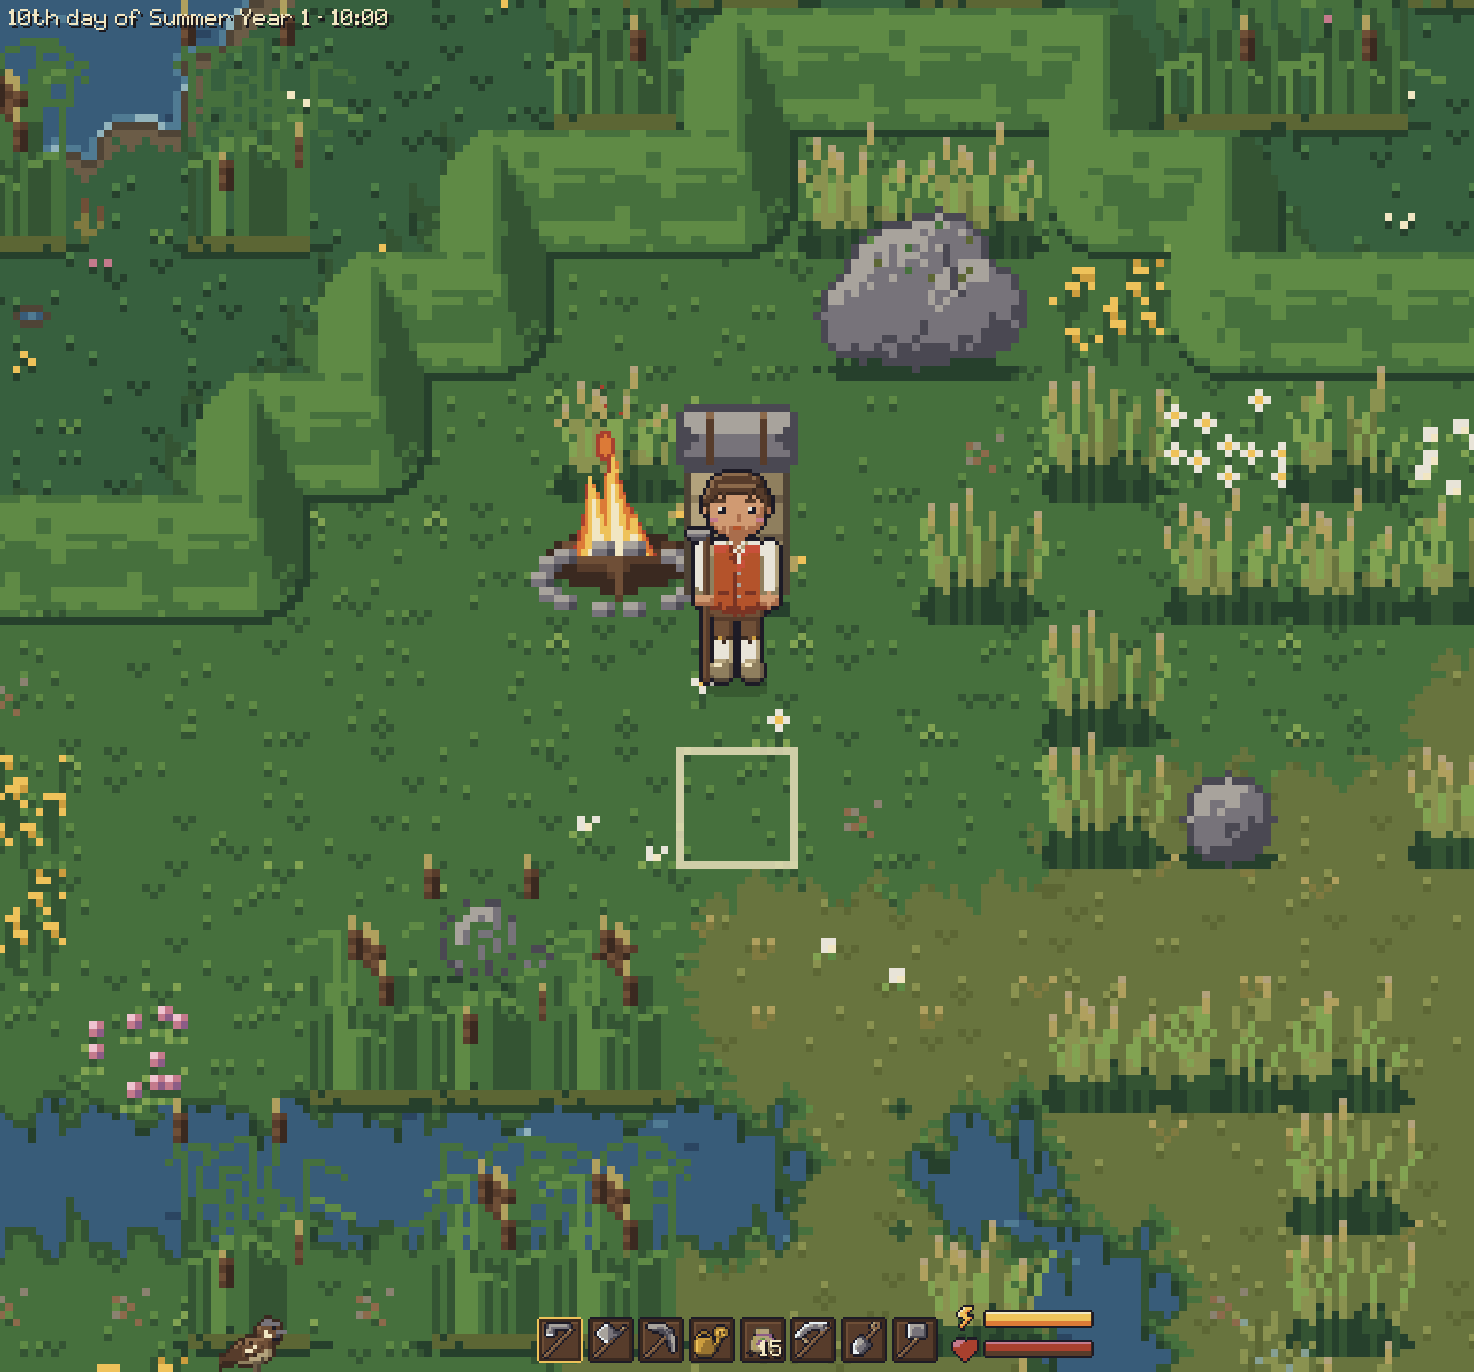
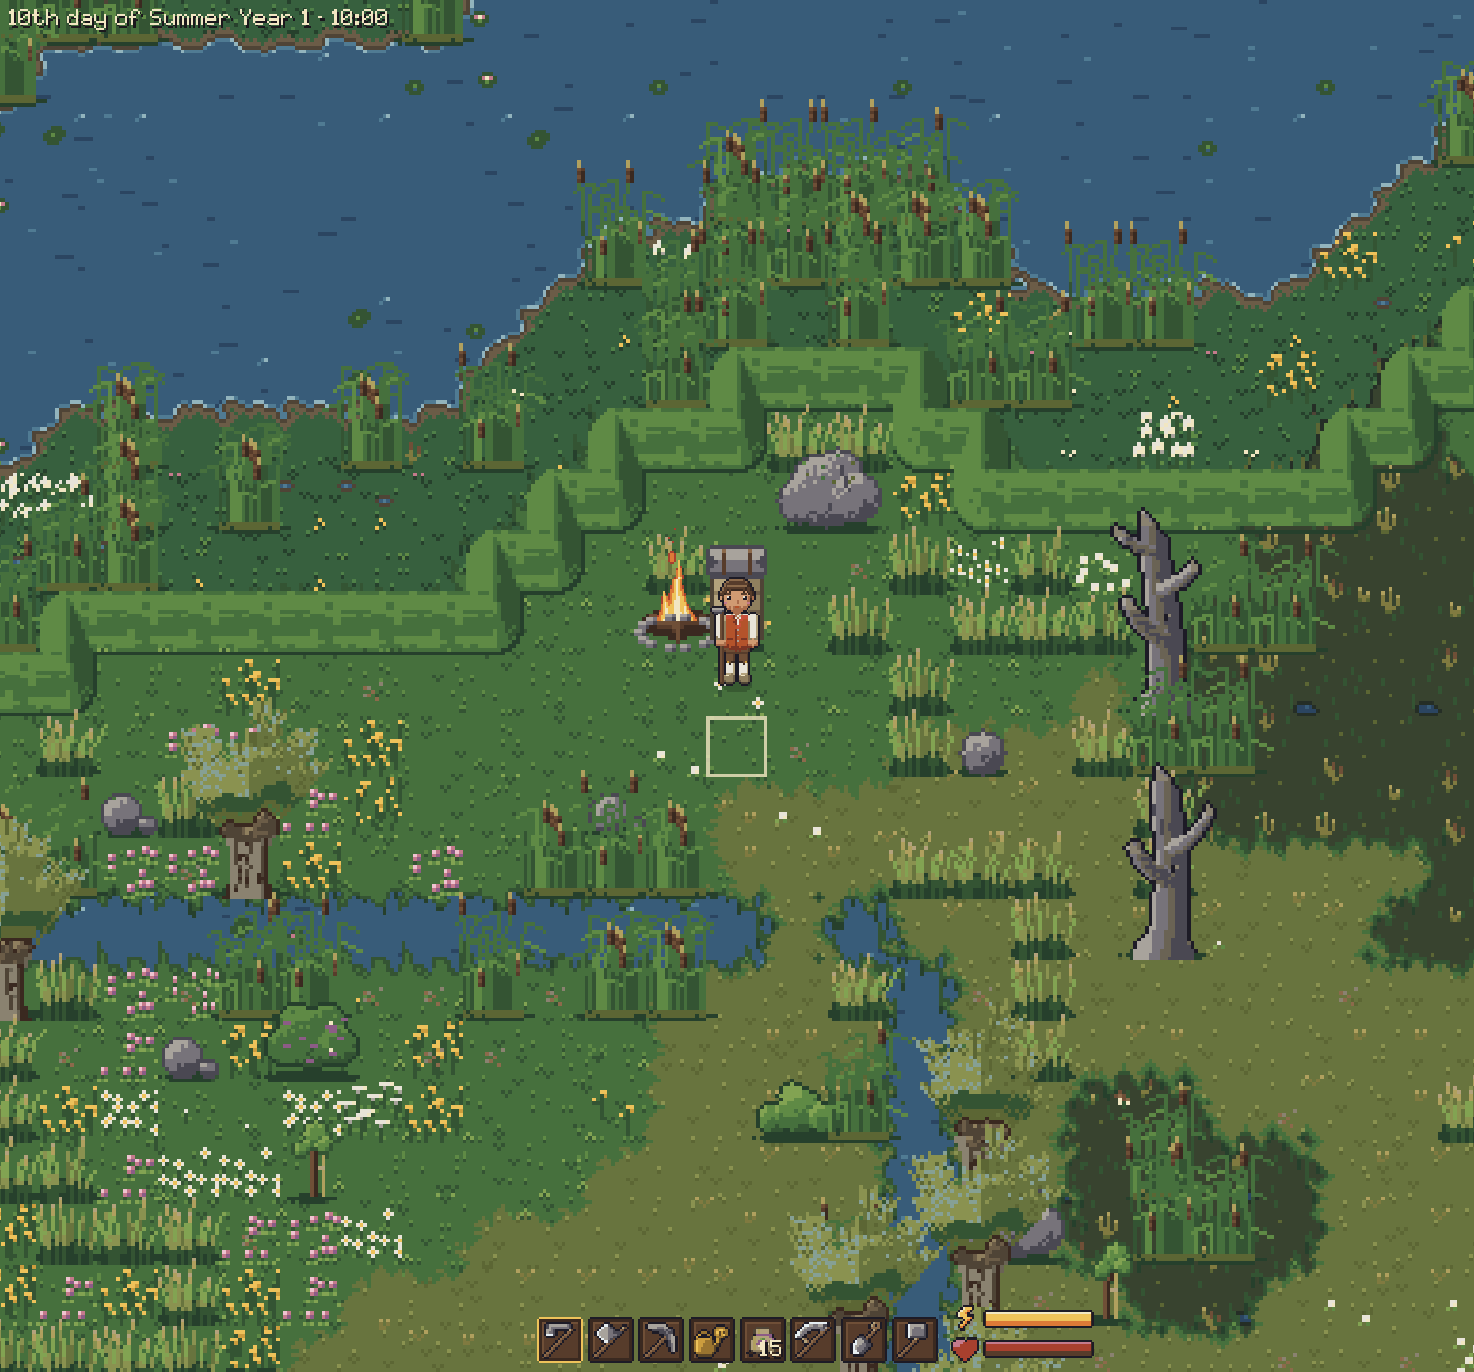
Docs: the widest view at 40x22 tiles again and the zoom keys; task 118 done

diff --git a/SPEC.md b/SPEC.md
@@ -44,7 +44,7 @@ top of classic pixel art (details under "Lighting and look").
 
 - **Rendering in two stages:**
   1. The world is rendered **on the art-pixel grid** (one art pixel = one render pixel) into
-     an off-screen image of at most about 640×360 plus a small margin. Lighting, tint and
+     an off-screen image of at most about 1280×720 plus a small margin. Lighting, tint and
      glow are computed there, so light lands exactly on the pixel grid.
   2. That image is scaled to the screen **steplessly** with a sharp-bilinear filter:
      pixels stay sharp, only one row of screen pixels blends at their edges. Zoom and
@@ -52,21 +52,24 @@ top of classic pixel art (details under "Lighting and look").
 - **UI** is rendered separately at native resolution.
 - **Tiles: 32×32** (decided 2026-11-08, after the mockup in review/resolution-mockup-2026-11-08:
   the 16×16 art was "early PC, almost C64"; small animals and legs one pixel wide did not read).
-  The widest view is a native 640×360 art pixels (20×11 tiles, the area the 16 px art showed at
-  zoom 1), shown at a whole multiple on the usual screens (×3 at 1080p, ×4 at 1440p). Until all
+  The widest view is 1280×720 art pixels (40×22 tiles, the area the 16 px art showed at its
+  widest zoom 0.5; task 118), an art pixel 1.5 screen pixels at 1080p. Until all
   art is redrawn at 32 px, the generators' 16 px output is doubled pixel for pixel (tasks 106 and
   on); the people are drawn at 32 px since task 113, the farm animals since task 114, the wild
   animals, the flames, the hit particles and the weather (rain, splashes, snow, wind, fog) since
   task 116, the small animals a little larger than life. The 16 px art of a redrawn group stays
   in the game as the classic art, a setting (see Settings). (Was: 16×16, 320×180 at zoom 1.)
-- **Stepless zoom** from the widest view (640×360 art pixels, zoom 1) in to 2× (320×180); the
-  game starts at the widest (the user zooms out fully anyway, 2026-11-08). Ctrl and the mouse
-  wheel zoom; the wheel alone steps through the hotbar. (Was: 0.5× to 2×, starting at 0.5×.)
+- **Stepless zoom** from the widest view (1280×720 art pixels, zoom 0.5) in to zoom 2
+  (320×180; zoom 1 is 640×360); the game starts at the widest (the user zooms out fully
+  anyway, 2026-11-08). The keys `=` and `-` (also the keypad's + and −; actions `zoom_in` and
+  `zoom_out`, rebindable) and Ctrl and the mouse wheel zoom; the wheel alone steps through the
+  hotbar. Zoom is a setting of the session, not saved. Between task 106 and task 118 the
+  widest view was 640×360 (20×11 tiles), a quarter of what the 16 px art showed.
 - **Smooth camera following:** the camera follows the player's exact position, so the
   world scrolls at sub-pixel precision; the player, drawn on the pixel grid, may wobble by up
   to half an art pixel. Chosen over a pixel-locked camera (2026-11-05).
 - **Camera API** for scripted moves (cutscenes later): follow a target, move to a point,
-  zoom to a value, chain moves in a sequence. The mouse wheel uses the same zoom.
+  zoom to a value, chain moves in a sequence. The mouse wheel and the zoom keys use the same zoom.
 - **Standard effects:**
   - **day and night tint:** the whole picture changes colour with the time of day (warm
     morning, neutral noon, orange dusk, blue night);

diff --git a/TASKS.md b/TASKS.md
@@ -1666,7 +1666,21 @@ running beside this task, so their classic art comes with them or right after.
 
 ## 118. Zoom out as far as before the 32 px switch
 
-- [ ] Done
+- [x] Done
+
+Done: the widest view shows 1280×720 art pixels, 40×22 tiles, again (zoom 0.5, `ViewMath.MIN_ZOOM`;
+`WIDEST_VISIBLE_SIZE`, and the stage-one viewport is that plus the margin). Zoom 1 and 2 keep
+their size (640×360, 320×180), so `--zoom=` and `make screenshot ZOOM=` mean what they did; the
+game starts at 0.5. The zoom keys `=` and `-` (and the keypad's + and −), the actions `zoom_in`
+and `zoom_out`, are rebindable and listed on the Controls page and in the README; a press is two
+wheel notches and holding repeats. Where an art pixel is smaller than a window pixel (windows
+under 1280×720) the sharp-bilinear shader averages four taps. Cost, measured in a busy scene
+(rain, 8 villagers, deer, rabbits, gulls, cows, sheep, dusk) at 1920×1080 on an Intel Arc: the
+world viewport's GPU time went from 1.09 to about 2.8 ms, the whole frame's GPU time from about
+4.8 to 6.4 ms, so the frame stays capped by the 145 Hz display (6.9 ms) either way. Nothing else
+needed a change: the weather and fog shaders work in viewport pixels (they follow
+`VIEWPORT_SIZE`), and spawning, wildlife and streaming count in tiles or follow the view
+(`view_rect`), and the same 40×22 tiles worked before task 106.
 
 The user, 2026-11-08: "we need the zoom back. Now we need to zoom even further to get the same
 effect as before". Before task 106 the widest view (zoom 0.5 of 16 px art) showed 640x360 art

diff --git a/README.md b/README.md
@@ -465,8 +465,9 @@ energy drain and the day length variation, and set the language model villagers 
 through. Hover over a setting, a key or an item in the
 hotbar, inventory or equipment for a short explanation: an item's kind, weight, what food
 gives back, what seeds grow and where they are planted. The game starts at its widest view,
-a native 640×360 art pixels (20×11 tiles of 32×32, ×3 on a 1080p screen and ×4 at 1440p);
-Ctrl and the mouse wheel zoom smoothly in to 2×. The wheel alone steps through the hotbar.
+1280×720 art pixels (40×22 tiles of 32×32, an art pixel is 1.5 screen pixels on a 1080p
+screen); `=` and `-` (also the keypad's + and −) or Ctrl and the mouse wheel zoom smoothly in
+to 4× that, 320×180 art pixels. The wheel alone steps through the hotbar.
 
 ![Rebinding the controls](docs/screenshots/controls.png)
 
@@ -477,7 +478,7 @@ same in both.
 
 ![The camp with villagers in the new art and in the classic art](docs/screenshots/art-sets.png)
 
-![Zoomed in to 2×](docs/screenshots/zoom.png)
+![Zoomed in to the closest view](docs/screenshots/zoom.png)
 
 ### Console
 
@@ -523,6 +524,7 @@ These are the default keys; all of them can be changed under Settings → Contro
 | X | Switch the hammer between building and taking down (hold Space or click to take down) |
 | Q, E | Previous and next building (while holding the hammer) |
 | Mouse wheel | Next or previous hotbar slot |
+| `=`, `-` (also keypad + and −) | Zoom in, zoom out (hold to keep zooming) |
 | Ctrl + mouse wheel | Zoom |
 | Escape | Pause menu |
 | `/` | Console |

diff --git a/docs/architecture.md b/docs/architecture.md
@@ -138,8 +138,10 @@ Warft and an Ewer here and there.
   says which chest or station E opens; `CraftingScreen` shows the recipes of one place.
 - **Units:** the state works in tiles (positions, speeds, reach); the views turn tiles into
   world pixels with `TerrainTileset.TILE_SIZE` (32: a tile is 32×32 art pixels, task 106).
-  `ViewMath` holds the numbers of the two-stage rendering: zoom 1 is the widest view, a native
-  640×360, zoom 2 the closest. While the art is the 16 px art doubled (see docs/art-style.md,
+  `ViewMath` holds the numbers of the two-stage rendering: zoom 0.5 is the widest view,
+  1280×720 art pixels (40×22 tiles) in a stage-one viewport of that size plus a margin, zoom 1
+  shows 640×360 and zoom 2, the closest, 320×180; the zoom keys and Ctrl and the wheel move it
+  (`CameraController`). While the art is the 16 px art doubled (see docs/art-style.md,
   "Resolution"), a number measured on a picture is written as its 16 px number times
   `TerrainTileset.ART_16_SCALE`; once its group is drawn at 32 px (the people, task 113; the
   farm animals, task 114; the wild animals, their shadows, the hit particles, the fire and the

diff --git a/docs/art-style.md b/docs/art-style.md
@@ -61,8 +61,9 @@ differs from grass only by its darker blades: still a visible patch, but softer.
 ## Resolution: 32 px per tile
 
 A tile is **32×32 art pixels** (decided 2026-11-08, task 106; see SPEC.md "Lighting and look"),
-and the widest view is a native 640×360: 20×11 tiles, shown ×3 on a 1080p screen and ×4 at
-1440p. The art was drawn at 16 px per tile, and the generators still draw at `canvas.TILE = 16`:
+and the widest view is 1280×720 art pixels: 40×22 tiles (task 118), shown ×1.5 on a 1080p screen
+(an art pixel is a window pixel at 1280×720; below that the view is averaged down), the closest
+320×180: 10×5.6 tiles. The art was drawn at 16 px per tile, and the generators still draw at `canvas.TILE = 16`:
 `generate.py` scales every file of its `DOUBLED` list up to the game's tile (`canvas.GAME_TILE`,
 32) pixel for pixel, as the last step before the palette check. So until a group is redrawn
 the game looks as it did, every pixel 2×2.
